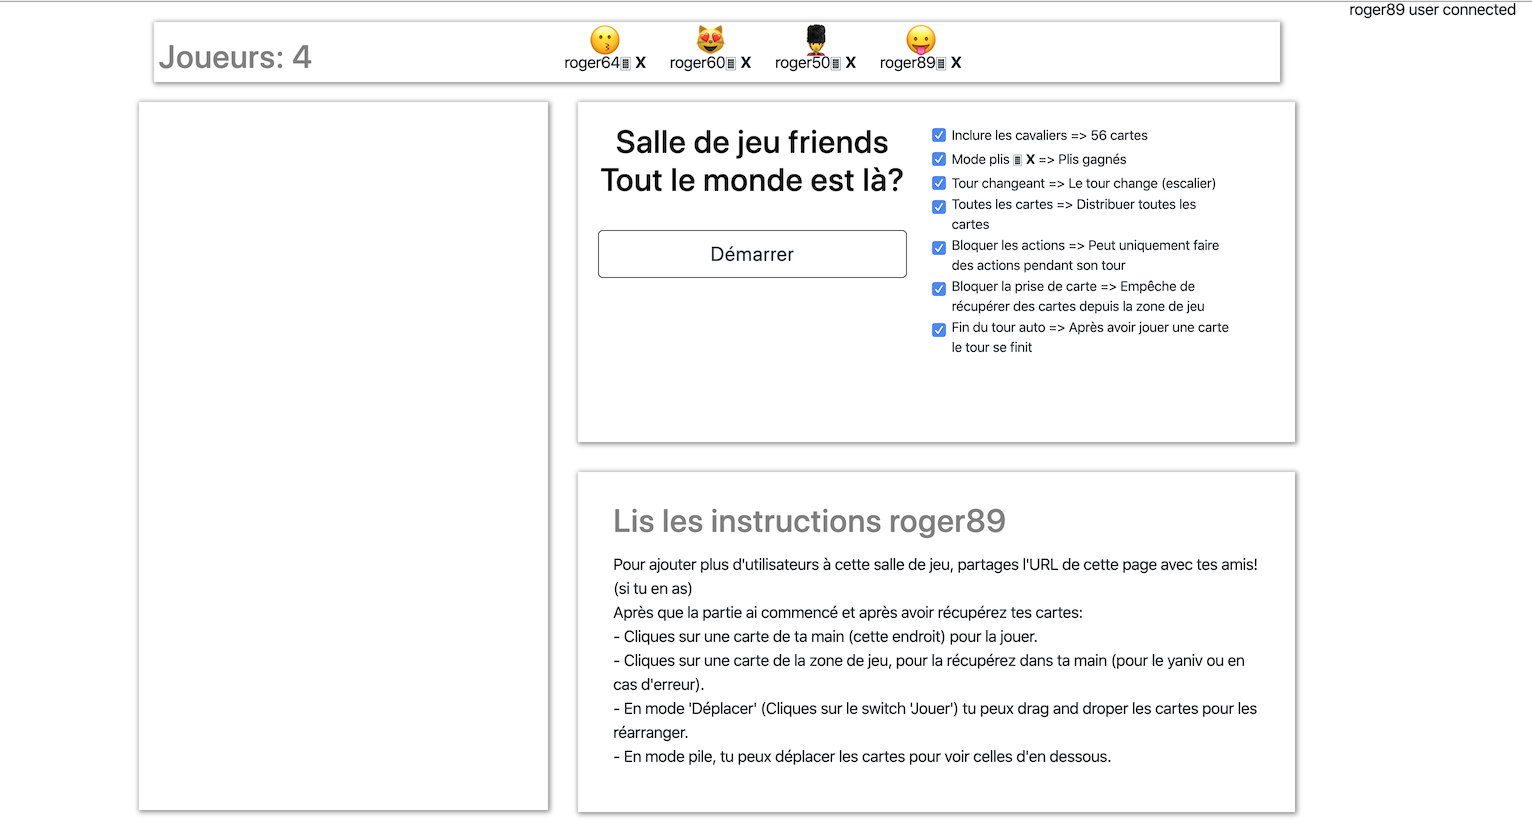
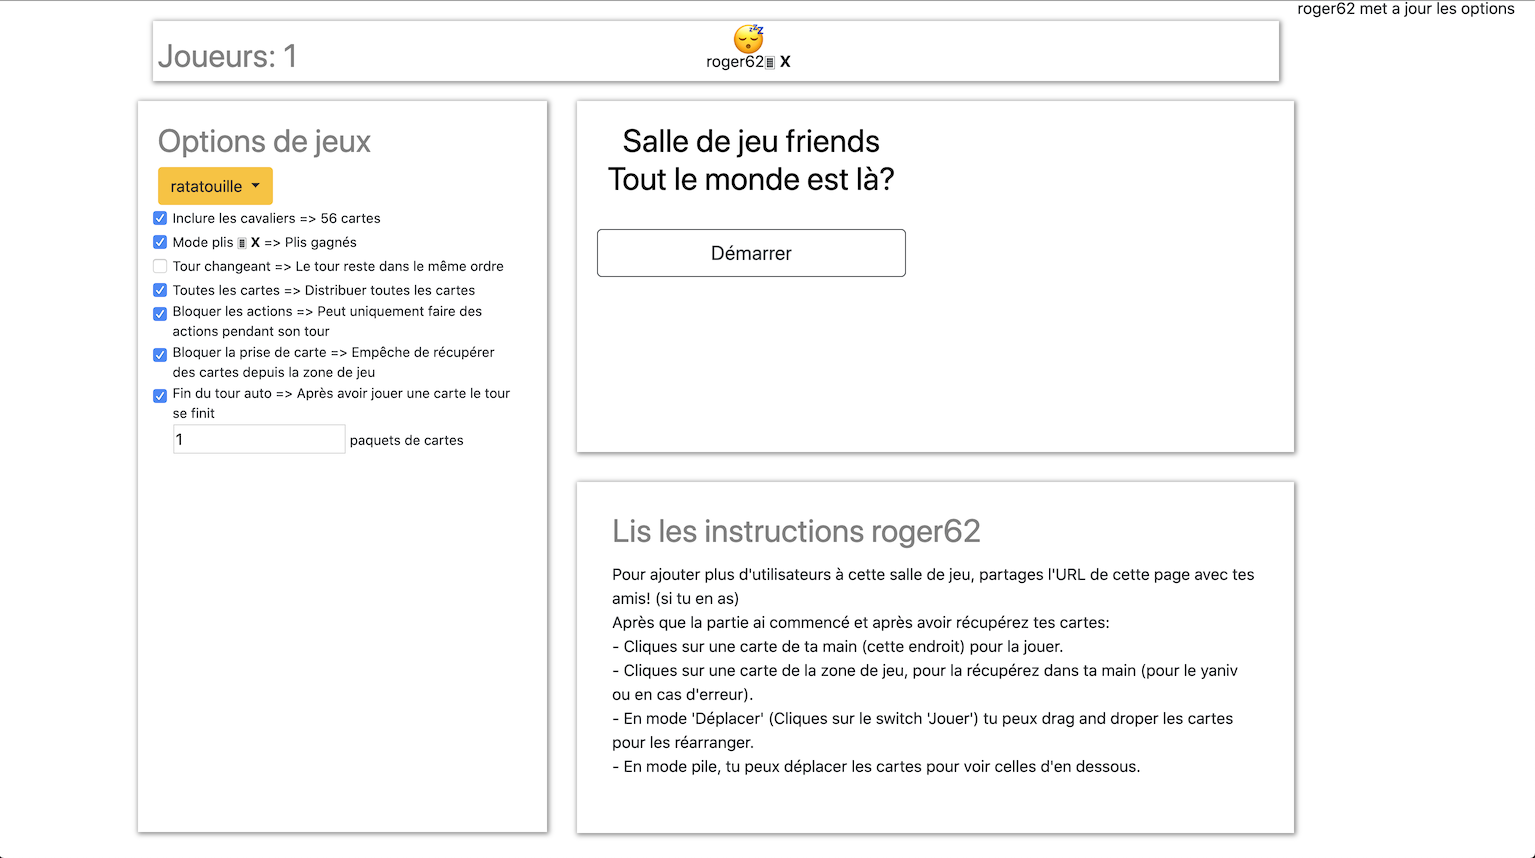
Add game preconfiguration

Changed region(s): [[0.092, 0.0, 1.0, 1.0], [0.2148, 0.5, 0.3068, 0.5312]]

diff --git a/public/javascripts/game.js b/public/javascripts/game.js
@@ -81,6 +81,16 @@ function main(roomName) {
     changeCardColor();
   });
 
+  $("body").on("click", ".dropdown-item", function (e) {
+    console.log("click")
+      e.preventDefault(); // cancel the link behaviour
+      var selText = $(this).text();
+      $("#gameStyleDrop").text(selText);
+      options = configs[selText]
+      options.config_name = selText
+      updateOptions();
+  });
+
   room = roomName
 
   i18next.use(i18nextXHRBackend ).use(i18nextBrowserLanguageDetector)
@@ -259,12 +269,11 @@ socket.on("onUpdateData", function (data) {
   playAction(action);
 });
 
-function updateOption(name, value) {
+function updateOptions() {
   // Game disconnected
   if(socket.id == undefined) {
     return;
   }
-  options[name] = value;
   var data = {action: actions.UPDATE_OPTION, options: options}
   socket.emit("updateData", data);
 }
@@ -316,7 +325,7 @@ function start() {
   options["cards_distribute"] = 1;
   options["stack_visible"] = true;
 
-  updateData({ action: actions.UPDATE_OPTION, options: options })
+  updateOptions()
   resetRound();
 }
 
@@ -559,12 +568,59 @@ function createInputOption(name, title) {
     <label class="form-check-label option_label" for="option_${name}" >${translate(title)}`
 }
 
+function createGameConfigs() {
+  var content = 
+  `<div class="dropdown">
+      <button class="btn btn-warning dropdown-toggle" type="button" id="gameStyleDrop"
+        data-toggle="dropdown" aria-haspopup="true" aria-expanded="false">
+        ${options.config_name == undefined? translate("Preconfiguration"): options.config_name}
+      </button>
+      <div class="dropdown-menu" aria-labelledby="gameStyleDrop">`;
+        forEach(configs, function (value, prop, obj) {
+          content += `<a class="dropdown-item" href="#">${prop}</a>`;
+        });
+      content += `</div>`;
+  content += `</div>`
+  return content;
+}
+
 function syncCheckOption(name) {
   options[name] = $("#option_"+name).is(":checked");
 }
 
 function syncInputOption(name) {
   options[name] = $("#option_"+name).val();
+}
+
+function drawOptionList() {
+  return `
+  ${createOption("cavaliers", translate("Include cavaliers"), translate("56 cards"), translate("52 cards"))}
+  <br />
+  ${createOption("tricks", translate("Claim tricks 🂠")+" <b> X </b>", translate("tricks won"), translate("cards in hand"))}
+  <br />
+  ${createOption("turn", translate("Turn change"), translate("turn change each round"), translate("turn order stay the same"))}
+  <br />
+  ${createOption("all_cards", translate("All cards"), translate("Distribute all cards"), translate("Distribute a specific number"))}
+  <br />
+  ${createOption("block_action", translate("Block actions"), translate("Only the player whose turn can do things"), translate("Action can be done by anyone at any moment"))}
+  <br />
+  ${createOption("block_get_cards", translate("Block cards taken"), translate("Prevent to take cards from playing area"), translate("Cards can be taken from playing area"))}
+  <br />
+  ${createOption("next_turn", translate("End turn after playing"), translate("Play a card to end turn"), translate("You have to specifically end you turn"))}
+  <br />
+  ${createInputOption("number_decks", "decks of cards")}
+  `;
+}
+
+
+function drawPileConfig() {
+  return `
+      <h2> ${translate("Game options")} </h2>
+      ${createGameConfigs()}
+      <div id="option_list" class="col h-100">
+      ${drawOptionList()}
+    </div>
+  `;
 }
 
 function drawDeckConfig() {
@@ -574,25 +630,6 @@ function drawDeckConfig() {
           <h2 class="start_text">${translate("Room")} ${room} <br> ${translate("Everyone in?")}</h2>
           <br />
           ${createButton("Start", "start()")}
-        </div>
-        <div class="col-6 h-100 container " id="optionList">
-          <div class="col h-100">
-            ${createOption("cavaliers", translate("Include cavaliers"), translate("56 cards"), translate("52 cards"))}
-            <br />
-            ${createOption("tricks", translate("Claim tricks 🂠")+" <b> X </b>", translate("tricks won"), translate("cards in hand"))}
-            <br />
-            ${createOption("turn", translate("Turn change"), translate("turn change each round"), translate("turn order stay the same"))}
-            <br />
-            ${createOption("all_cards", translate("All cards"), translate("Distribute all cards"), translate("Distribute a specific number"))}
-            <br />
-            ${createOption("block_action", translate("Block actions"), translate("Only the player whose turn can do things"), translate("Action can be done by anyone at any moment"))}
-            <br />
-            ${createOption("block_get_cards", translate("Block cards taken"), translate("Prevent to take cards from playing area"), translate("Cards can be taken from playing area"))}
-            <br />
-            ${createOption("next_turn", translate("End turn after playing"), translate("Play a card to end turn"), translate("You have to specifically end you turn"))}
-            <br />
-            ${createInputOption("number_decks", "decks of cards")}
-        </div>
         </div>
       </div>
     `;
@@ -679,27 +716,32 @@ function drawDeckPlay() {
 
 function drawDeck() {
   $("#mainDeck").empty();
-  var content = "";
+  $("#playArea").empty();
+  var deckContent = "";
+  var playContent = "";
   switch(state) {
     case STATE_CONFIG: {
       $("#game_controls").invisible();
-      $("#playArea").empty();
       $("#tricksArea").empty();
-      content = drawDeckConfig();
+      deckContent = drawDeckConfig();
+      playContent = drawPileConfig();
+      $("#playArea").append(playContent);
       break;
     }
     case STATE_DISTRIBUTE: {
       $("#game_controls").visible();
-      content = drawDeckDistribute();
+      deckContent = drawDeckDistribute();
+      drawPile();
       break;
     }
     case STATE_PLAY: {
       $("#game_controls").visible();
-      content = drawDeckPlay();
+      deckContent = drawDeckPlay();
+      drawPile();
       break;
     }
   }
-  $("#mainDeck").append(content);
+  $("#mainDeck").append(deckContent);
 }
 
 function drawHand(instruction = false) {
@@ -819,7 +861,6 @@ function sortCard() {
 
 function distributeCards() {
   syncInputOption("cards_distribute")
-  updateData({ action: actions.UPDATE_OPTION, options: options })
   
   var numCards = $("#distribute_card").val();
   if (options.all_cards) {
@@ -830,7 +871,8 @@ function distributeCards() {
 }
 
 function onOptionChange(name) {
-  updateOption(name, $("#option_" + name).is(":checked"));
+  options[name] = $("#option_" + name).is(":checked");
+  updateOptions();
 }
 
 function debug(object) {

diff --git a/public/javascripts/tools.js b/public/javascripts/tools.js
@@ -1,0 +1,20 @@
+/**
+ * A simple forEach() implementation for Arrays, Objects and NodeLists
+ * @private
+ * @param {Array|Object|NodeList} collection Collection of items to iterate
+ * @param {Function} callback Callback function for each iteration
+ * @param {Array|Object|NodeList} scope Object/NodeList/Array that forEach is iterating over (aka `this`)
+ */
+var forEach = function (collection, callback, scope) {
+	if (Object.prototype.toString.call(collection) === '[object Object]') {
+		for (var prop in collection) {
+			if (Object.prototype.hasOwnProperty.call(collection, prop)) {
+				callback.call(scope, collection[prop], prop, collection);
+			}
+		}
+	} else {
+		for (var i = 0, len = collection.length; i < len; i++) {
+			callback.call(scope, collection[i], i, collection);
+		}
+	}
+};

diff --git a/public/javascripts/common.js b/public/javascripts/common.js
@@ -34,3 +34,33 @@ const actions = {
     CLEAR_AREA: "clear the playing area",
     CLAIM_TRICK: "claim trick"
 }
+
+const configs = {
+    escalier : { 
+        tricks: true,
+        cards_distribute: 2,
+        cavaliers: true,
+        turn: true,
+        all_cards: false,
+        block_get_cards: true,
+        next_turn: true
+    },
+    ratatouille : { 
+        tricks: true,
+        cards_distribute: -1,
+        cavaliers: true,
+        turn: false,
+        all_cards: true,
+        block_get_cards: true,
+        next_turn: true
+    }, 
+    yaniv : { 
+            tricks: false,
+            cards_distribute: 4,
+            cavaliers: true,
+            turn: false,
+            all_cards: false,
+            block_get_cards: false,
+            next_turn: false
+    }
+}

diff --git a/views/game.html b/views/game.html
@@ -45,6 +45,7 @@
     <script src="https://unpkg.com/i18next-xhr-backend/i18nextXHRBackend.js"></script>
     <script src="https://unpkg.com/i18next-browser-languagedetector/i18nextBrowserLanguageDetector.js"></script>
     <script src="/javascripts/common.js"></script>
+    <script src="/javascripts/tools.js"></script>
     <script src="/javascripts/game.js"></script>
     <title>Virtual Deck - Play Anywhere with Anyone</title>
   </head>

diff --git a/README.md b/README.md
@@ -51,6 +51,7 @@ Current supported Languages: Enlgish, French
 - Add 4 colors option
 - Add sound options
 - Choose the number of decks to play with
+- Add game prefconfiguration
 
 # What's next 
 
@@ -62,7 +63,6 @@ Current supported Languages: Enlgish, French
 - GAME PLAY - Quand quelqu'un se connecte lui permettre ou non de rejoindre la partie, sinon spectateur
 - GAME PLAY - Locker la partie pour que plus personnes ne puisse rentrer 
 - GAME PLAY - Gestion des scores
-- GAME PLAY - Preset de configuration pour des jeux existants
 - GAME PLAY - TAROTS - Rajouter les cartes les atouts de tarot
 - GAME PLAY - Créer de nouvelles cartes entre 10 et valet quand on est plusieurs (11, 12, 13, 14, 15...)
 - UX - Chat écrit
